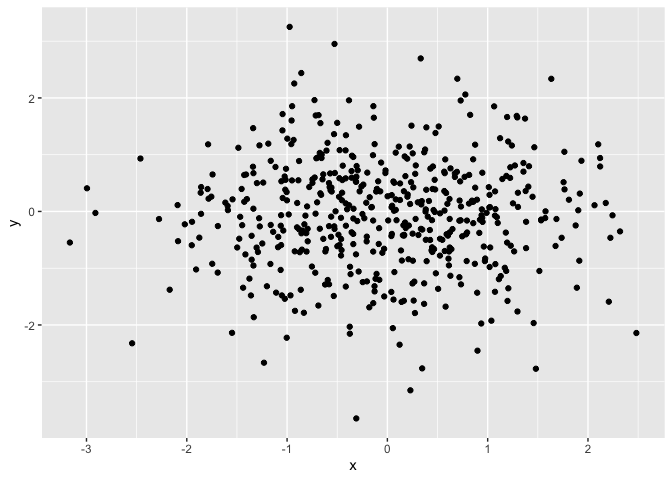
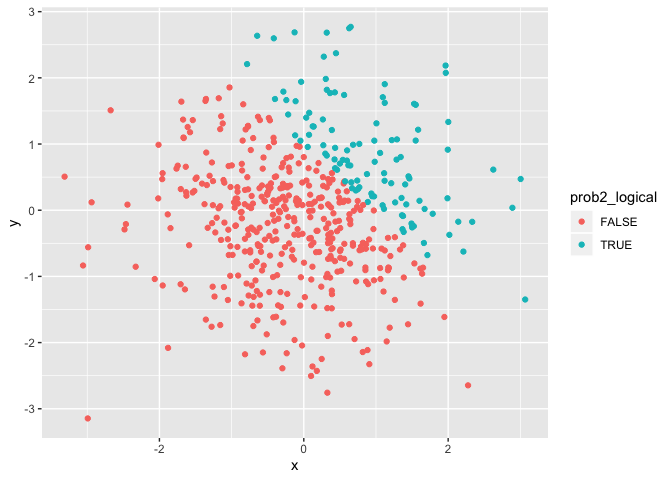
MADE A PLOT WITH COLORS!!!!!

diff --git a/p8105_hw1_hf2379.md b/p8105_hw1_hf2379.md
@@ -16,9 +16,9 @@ prob1_df = tibble (
 
 ## Try to take the mean of each variable:
 
-  - The mean of the sample size is -0.074496.
+  - The mean of the sample size is -0.3039969.
 
-  - The mean of the logical statement is 0.375.
+  - The mean of the logical statement is 0.25.
 
   - The mean of the character vector is NA.
 
@@ -47,7 +47,7 @@ the
 as.numeric(pull(prob1_df, prob1_sample_over0))*pull(prob1_df, prob1_sample)
 ```
 
-    ## [1] 0.3097676 0.0000000 0.9772036 0.1378946 0.0000000 0.0000000 0.0000000
+    ## [1] 0.0000000 2.0448511 0.0000000 0.8531024 0.0000000 0.0000000 0.0000000
     ## [8] 0.0000000
 
 ``` r
@@ -63,8 +63,8 @@ as.factor(pull(prob1_df, prob1_sample_over0))*pull(prob1_df, prob1_sample)
 as.numeric(as.factor(pull(prob1_df, prob1_sample_over0)))*pull(prob1_df, prob1_sample)
 ```
 
-    ## [1]  0.61953517 -0.74990712  1.95440718  0.27578915 -0.72359068 -0.47896253
-    ## [7] -0.01630373 -0.05206949
+    ## [1] -0.2941295  4.0897022 -0.6385533  1.7062048 -2.5305798 -0.1749620
+    ## [7] -0.4040911 -1.2876128
 
 # Problem 2
 
@@ -82,18 +82,19 @@ prob2_df = tibble(
 
   - This dataset contains 500 rows and 5 columns
 
-  - the mean of x is -0.0367596
+  - the mean of x is -0.0333709
 
-  - the median of x is -0.0413212
+  - the median of x is -0.0224894
 
-  - the standard deviation of x is 0.9996459
+  - the standard deviation of x is 1.0129796
 
-  - the proportion of cases for which x + y \> 1 is 0.21
+  - the proportion of cases for which x + y \> 1 is
+0.216
 
 ## Graph for Problem 2
 
 ``` r
-ggplot(prob2_df, aes(x = x, y = y)) + geom_point()
+ggplot(prob2_df, aes(x = x, y = y, color = prob2_logical)) + geom_point()
 ```
 
 ![](p8105_hw1_hf2379_files/figure-gfm/problem2_plot-1.png)<!-- -->
